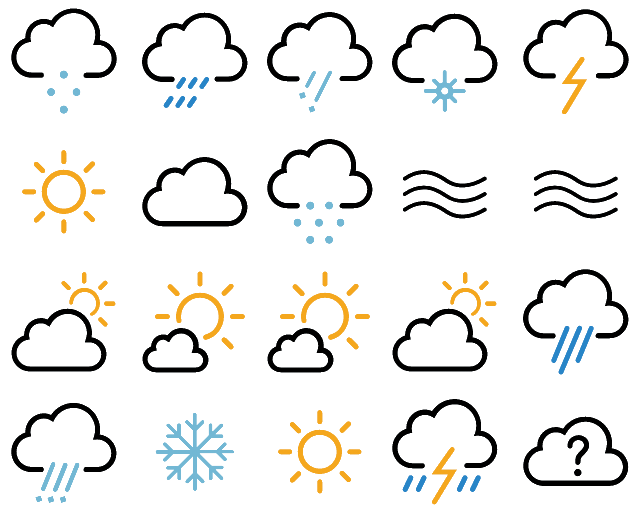
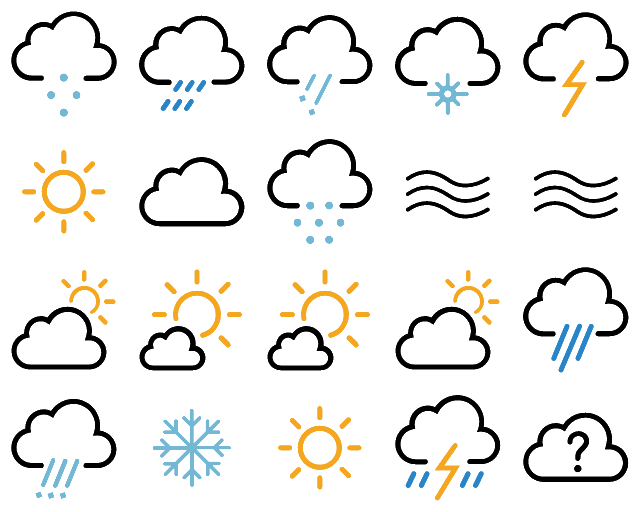
updated

diff --git a/WeatherGraphic.cpp b/WeatherGraphic.cpp
@@ -9,36 +9,36 @@ using namespace std;
 WeatherGraphic::WeatherGraphic(Font& font, Vector2f position, string icon_id):Graphic(font, position) {
     this->icon_id = icon_id;
 
-    weather_icons.loadFromFile("weather_icons.png");
+    weather_icons.loadFromFile("Untitled.png");
     weather_icons.setSmooth(true);
 
     if (icon_id == "01d" || icon_id == "01n") {
         // sunny
-        icon = Sprite(weather_icons, IntRect(0, 128, 128, 128));
+        icon = Sprite(weather_icons, IntRect(0, 196, 196, 196));
     } else if (icon_id == "02d" || icon_id == "02n") {
         // partly cloudy
-        icon = Sprite(weather_icons, IntRect(0, 256, 128, 128));
+        icon = Sprite(weather_icons, IntRect(0, 384, 196, 196));
     } else if (icon_id == "03d" || icon_id == "03n" || icon_id == "04d" || icon_id == "04n") {
         // cloudy
-        icon = Sprite(weather_icons, IntRect(128, 128, 128, 128));
+        icon = Sprite(weather_icons, IntRect(196, 196, 196, 196));
     } else if (icon_id == "09d" || icon_id == "09n") {
         // shower rain
-        icon = Sprite(weather_icons, IntRect(128, 0, 128, 128));
+        icon = Sprite(weather_icons, IntRect(196, 0, 196, 196));
     } else if (icon_id == "10d" || icon_id == "10n") {
         // rain
-        icon = Sprite(weather_icons, IntRect(512, 256, 128, 128));
+        icon = Sprite(weather_icons, IntRect(512, 384, 196, 196));
     } else if (icon_id == "11d" || icon_id == "11n") {
         // thunderstorm
-        icon = Sprite(weather_icons, IntRect(512, 0, 128, 128));
+        icon = Sprite(weather_icons, IntRect(512, 0, 196, 196));
     } else if (icon_id == "13d" || icon_id == "13n") {
         // snow
-        icon = Sprite(weather_icons, IntRect(128, 384, 128, 128));
+        icon = Sprite(weather_icons, IntRect(196, 576, 196, 196));
     } else if (icon_id == "50d" || icon_id == "50n") {
         // mist
-        icon = Sprite(weather_icons, IntRect(512, 128, 128, 128));
+        icon = Sprite(weather_icons, IntRect(576, 196, 196, 196));
     } else {
         // unknown
-        icon = Sprite(weather_icons, IntRect(512, 384, 128, 128));
+        icon = Sprite(weather_icons, IntRect(512, 576, 196, 196));
     }
 
     icon.setPosition(position);

diff --git a/main.cpp b/main.cpp
@@ -9,6 +9,7 @@
 #include "Graphic.h"
 #include "WeatherGraphic.h"
 #include "CurrentWeatherGraphic.h"
+#include "ForecastWeatherGraphic.h"
 #include <ctime>
 #include <SFML/Graphics.hpp>
 
@@ -19,7 +20,7 @@ using namespace std;
 using namespace sf;
 
 int main() {
-    RenderWindow window(VideoMode(550, 325), "Weather", Style::Titlebar | Style::Close);
+    RenderWindow window(VideoMode(325, 550), "Weather", Style::Titlebar | Style::Close);
     window.setFramerateLimit(60);
 
     User user = User();
@@ -27,8 +28,7 @@ int main() {
     Coordinates user_coordinates = user.get_location_coordinates();
 
     Font font;
-    font.loadFromFile("arial.ttf");
-    cout << font.hasGlyph(176);
+    font.loadFromFile("calibri-regular.ttf");
     // Text text;
     // text.setFont(font);
     // text.setString ("Weather Application");
@@ -37,7 +37,9 @@ int main() {
     // text.setStyle(Text::Bold);
 
 
-    CurrentWeatherGraphic weather_graphic(font, Vector2f(200, 150), "13d", 32);
+    CurrentWeatherGraphic current_weather_graphic(font, Vector2f(30, 20), "01d", 32);
+
+    ForecastWeatherGraphic forecast_graphic(font, Vector2f(30, 20), "01d", 16, 18, 0, "Today");
 
 
     Location user_location(font, Vector2f(10, 3), user_location_string, user_coordinates);
@@ -100,7 +102,8 @@ int main() {
             window.draw(locations);
         }
 
-        window.draw(weather_graphic);
+        window.draw(current_weather_graphic);
+        window.draw(forecast_graphic);
 
         window.display();
     }

diff --git a/ForecastWeatherGraphic.cpp b/ForecastWeatherGraphic.cpp
@@ -1,0 +1,29 @@
+#include "WeatherGraphic.h"
+#include "ForecastWeatherGraphic.h"
+#include <string>
+#include <SFML/Graphics.hpp>
+
+using namespace sf;
+using namespace std;
+
+ForecastWeatherGraphic::ForecastWeatherGraphic(Font& font, Vector2f position, string icon_id, int min_temperature, int max_temperature, int rain_chance, string day):WeatherGraphic(font, position, icon_id) {
+    icon.setScale(Vector2f(0.5, 0.5));
+
+    day_text.setFont(font);
+    day_text.setString(day);
+    day_text.setCharacterSize(25);
+    day_text.setPosition(Vector2f(position.x - 10, position.y + 20));
+
+    temperature_text.setFont(font);
+    String degree_symbol(Uint32(176));
+    temperature_text.setString("Min: " + to_string(min_temperature) + degree_symbol + ", Max: " + to_string(max_temperature) + degree_symbol);
+    temperature_text.setCharacterSize(25);
+    temperature_text.setPosition(Vector2f(position.x + 10, position.y + 20));
+    
+}
+
+void ForecastWeatherGraphic::draw(RenderTarget& target, RenderStates states) const {
+    target.draw(icon);
+    target.draw(day_text);
+    target.draw(temperature_text);
+}

diff --git a/CurrentWeatherGraphic.cpp b/CurrentWeatherGraphic.cpp
@@ -6,12 +6,15 @@
 CurrentWeatherGraphic::CurrentWeatherGraphic(Font& font, Vector2f position, string icon_id, int temperature):WeatherGraphic(font, position, icon_id) {
     this->temperature = temperature;
     temperature_text.setFont(font);
-    String degree_symbol = String::fromUtf32(176, 176);
-    temperature_text.setString(to_string(temperature) + degree_symbol);
-    temperature_text.setPosition(Vector2f(position.x + 130, position.y));
+    temperature_text.setString(to_string(temperature) + String(Uint32(176)));
+    temperature_text.setCharacterSize(45);
+    // temperature_text.setStyle(Text::Bold);
+    temperature_text.setPosition(Vector2f(position.x + 170, position.y + 60));
 }
 
 void CurrentWeatherGraphic::draw(RenderTarget& target, RenderStates states) const {
+    // target.draw(rectangle);
+
     target.draw(icon);
     target.draw(temperature_text);
 }

diff --git a/ForecastWeatherGraphic.h b/ForecastWeatherGraphic.h
@@ -1,0 +1,21 @@
+#ifndef FORECASTWEATHEGRAPHIC_H
+#define FORECASTWEATHEGRAPHIC_H
+
+#include "Graphic.h"
+#include "WeatherGraphic.h"
+#include <string>
+#include <SFML/Graphics.hpp>
+
+using namespace sf;
+using namespace std;
+
+class ForecastWeatherGraphic : public WeatherGraphic {
+    private:
+        Sprite rain_chance_text;
+        Text day_text;
+    public:
+        ForecastWeatherGraphic(Font& font, Vector2f position, string icon_id, int min_temperature,int max_temperature, int rain_chance, string day);
+        void draw(RenderTarget&, RenderStates states) const override;
+};
+
+#endif
